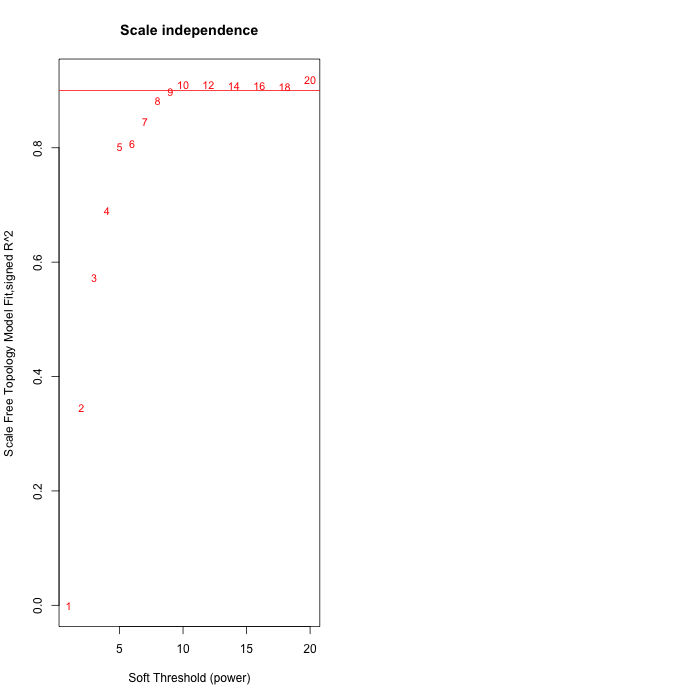
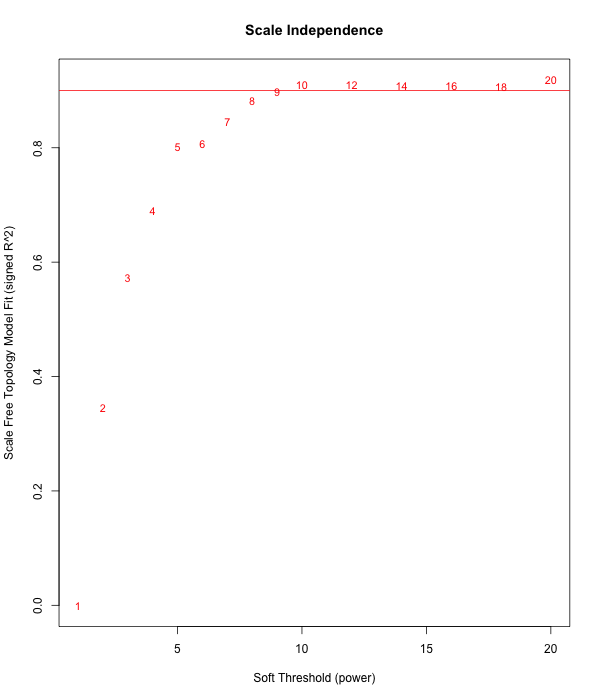
Add README.md with analysis results Fix plot labels, titles

diff --git a/README.md b/README.md
@@ -1,0 +1,103 @@
+# Exploring Gene Expression Data Using Weighted Gene Co-expression Network Analysis Across Multiple Cancer Types
+
+## CS5228 Knowledge Discovery and Data Mining
+A.V. AKILA RAVIHANSA PERERA – A0212216X
+
+TRAN KHANH HUNG – A0212253W
+
+
+## Method
+
+- WGCNA
+
+Weighted gene correlation network analysis (WGCNA) is a powerful method that uses a topological overlap module approach for constructing co-expression networks based on gene expression data. This method involves reconstructing gene co-expression modules and summarizing modules using module eigengenes (ME) and intramodular hub genes.
+
+- Gene Enrichment and Pathway Analysis
+
+Biologically interesting modules were identified using Fisher's exact test. The overlapping and union sets of genes from theses interesting gene module pairs were 
+subjected to Gene Set Enrichment Analysis using topGO package).
+
+## Dataset
+
+Three gene expression datasets for three cancer types (GBM, OV, BRCA) were selected from TCGA (The Cancer Genome Atlas).
+
+ - Glioblastoma Multiforme (GBM) gene expression by RNAseq
+ https://tcga.xenahubs.net/download/TCGA.GBM.sampleMap/HiSeqV2_PANCAN.gz
+ 
+ - Ovarian Serous Cystadenocarcinoma (OV) gene expression by RNAseq
+ https://tcga.xenahubs.net/download/TCGA.OV.sampleMap/HiSeqV2_PANCAN.gz
+ 
+ - Breast Invasive Carcinoma (BRCA) gene expression by RNAseq
+https://tcga.xenahubs.net/download/TCGA.BRCA.sampleMap/HiSeqV2_PANCAN.gz
+
+
+## Analysis
+
+###  Data Exploration 
+
+Scale Free Topology Model       |  Mean Connectivity      | Selected Soft Threshold
+:-------------------------:|:-------------------------:|:-------------------------:
+![](results/2_SFTM_Fit_GBM.png)  |  ![](results/2_Mean_Connectivity_GBM.png) | 9
+![](results/2_SFTM_Fit_OV.png)  |  ![](results/2_Mean_Connectivity_OV.png) | 6
+![](results/2_SFTM_Fit_BRCA.png)  |  ![](results/2_Mean_Connectivity_BRCA.png) | 12
+
+
+### Clustering Tree
+
+![GBM](results/2_Clustering_Tree_GBM.png)
+<br/><br/>
+
+![GBM](results/2_Clustering_Tree_OV.png)
+<br/><br/>
+
+![GBM](results/2_Clustering_Tree_BRCA.png)
+<br/><br/>
+
+### Gene Expression Network
+
+Network Heatmap       |      Eigengene Adjacency Heatmap      |      Eigengene Dendrogram
+:-------------------------:|:-------------------------:|:-------------------------:
+![](results/3_Network_heatmap_GBM.png) |  ![](results/3_Eigengene_heatmap_GBM.png)  |  ![](results/3_Eigengene_dendrogram_GBM.png)
+![](results/3_Network_heatmap_OV.png) |  ![](results/3_Eigengene_heatmap_OV.png)  |  ![](results/3_Eigengene_dendrogram_OV.png)
+![](results/3_Network_heatmap_BRCA.png) |  ![](results/3_Eigengene_heatmap_BRCA.png) |  ![](results/3_Eigengene_dendrogram_BRCA.png)
+
+
+### Overlapping Genes in Gene Modules
+
+Item                     | BRCA and GBM               |  GBM and OV               | OV and BRCA
+:-----------------------:|:-------------------------:|:-------------------------:|:-------------------------:
+|||
+--- Intersection --- |||
+Name | [grey_cyan_genes.txt](results/4_BRCA_GBM_Intersection_P0.999999996738616_grey_cyan_genes.txt) | [lightcyan_brown_genes.txt](results/4_GBM_OV_Intersection_P0.999999978350642_lightcyan_brown_genes.txt) | [grey_black_genes.txt](results/4_OV_BRCA_Intersection_P0.999999999999291_grey_black_genes.txt) 
+Gene module pair with highest p-value | 0.999999996738616 | 0.999999978350642 | 0.999999999999291
+Gene count in top module pair | 14 | 11 | 35
+topGO plot | [grey_cyan_topGO.pdf](results/4_BRCA_GBM_Intersection_grey_cyan_topGOPlot_fullnames.pdf) | [lightcyan_brown_topGO.pdf](results/4_GBM_OV_Intersection_lightcyan_brown_topGOPlot_fullnames.pdf) | [grey_black_topGO.pdf](results/4_OV_BRCA_Intersection_grey_black_topGOPlot_fullnames.pdf)
+topGO analysis | [grey_cyan_topGO.csv](results/4_BRCA_GBM_Intersection_grey_cyan_summary_topGO_analysis.csv) | [lightcyan_brown_topGO.csv](results/results/4_GBM_OV_Intersection_lightcyan_brown_summary_topGO_analysis.csv) | [grey_black_topGO.csv](results/4_OV_BRCA_Intersection_grey_black_summary_topGO_analysis.csv)
+|||
+|||
+--- Union --- |||
+Name | [grey_cyan_txt](results/4_BRCA_GBM_Union_P0.999999996738616_grey_cyan_genes.txt) | [lightcyan_brown_genes.txt](results/4_GBM_OV_Union_P0.999999978350642_lightcyan_brown_genes.txt) | [grey_black_genes.txt](results/4_OV_BRCA_Union_P0.999999999999291_grey_black_genes.txt)
+Gene module pair with highest p-value | 0.999999996738616 | 0.999999978350642 | 0.999999999999291
+Gene count in top module pair | 6066 | 1949 | 3262
+topGO plot | [grey_cyan_topGP.pdf](results/4_BRCA_GBM_Union_grey_cyan_topGOPlot_fullnames.pdf) | [lightcyan_brown_topGO.pdf](results/4_GBM_OV_Union_lightcyan_brown_topGOPlot_fullnames.pdf) | [grey_black_topGO.pdf](results/4_OV_BRCA_Union_grey_black_topGOPlot_fullnames.pdf)
+topGO analysis | [grey_cyan_topGO.csv](results/4_BRCA_GBM_Union_grey_cyan_summary_topGO_analysis.csv) | [lightcyan_brown_topGO.csv](results/4_GBM_OV_Union_lightcyan_brown_summary_topGO_analysis.csv) | [grey_black_topGO.csv](results/4_OV_BRCA_Union_grey_black_summary_topGO_analysis.csv)
+
+
+## Project Structure and Run Instructions
+
+ - Download and extract datasets to `./data` directory
+ - Install dependencies (R packages)
+    - Run `0_install_dependencies.R`
+    
+ - Gene filtering
+    - Run `1_wgcna_cluster.R`
+    
+ - Build gene expression network and identify gene modules
+    - Run `2_module_detection.R`
+    
+ - Generate gene network plots 
+    - Run `3_network_visualization.R`
+
+ - Gene Enrichment Analysis
+    - Run `4_gene_enrichment.R`
+    
